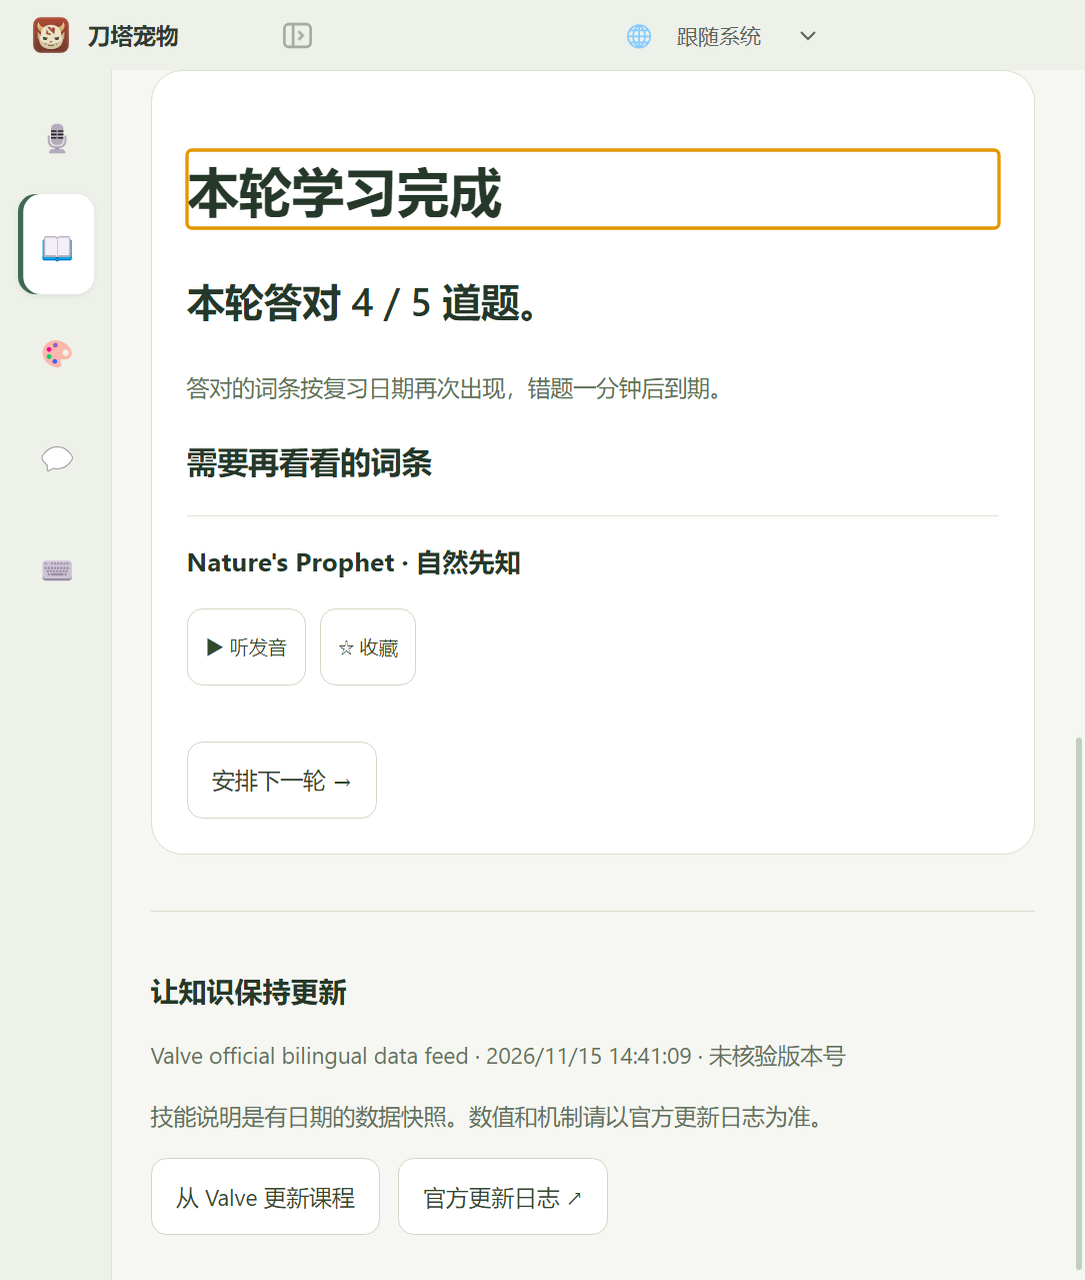
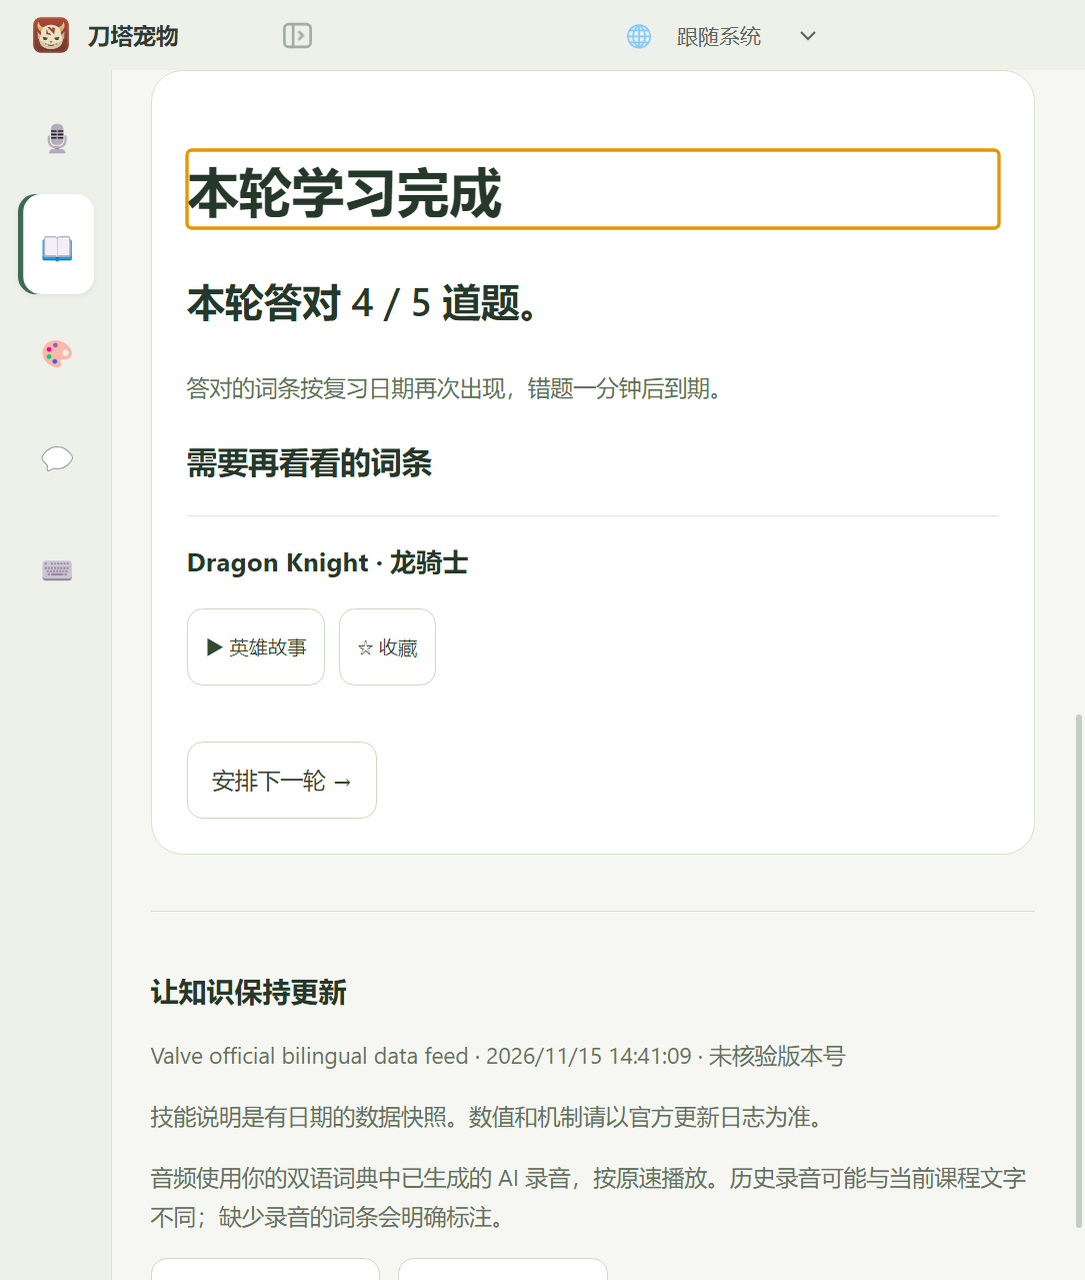
docs(audio): record imported library coverage and packaged playback checks

Changed region(s): [[0.1217, 0.9062, 0.9429, 0.9688], [0.1825, 0.4062, 0.4866, 0.5312], [0.9733, 0.9688, 1.0, 1.0]]

diff --git a/docs/DOTAPAD_LEARNING_PLAN.md b/docs/DOTAPAD_LEARNING_PLAN.md
@@ -24,7 +24,7 @@ The core learning loop is **explore → read English → reveal Chinese → list
 3. Bundle a normalized catalog with stable numeric hero, ability and item IDs and stable phrase IDs.
 4. Search English, Chinese, descriptions and parent hero names. Filter by subject.
 5. Display English first, Chinese names beside it, and Chinese descriptions behind a disclosure.
-6. Offer English pronunciation through system speech synthesis and cancel playback on page switches.
+6. Play the author's bundled AI-generated MP3 recordings from the bilingual lexicon at their original speed, with stop controls and automatic stop on navigation. Hero recordings are biographies; ability/item recordings include explanations. Mark missing recordings and label archive wording clearly.
 7. Save lessons to a personal wordbook and persist quiz progress under Electron `userData`.
 8. Offer multiple-choice recognition in both language directions, with distinct distractors from the same topic.
 9. Schedule successful answers after 1, 3, 7, 14 and 30 days; failures become due after one minute. A practice session avoids repeating a card; start a new session to review newly due mistakes.
@@ -54,7 +54,7 @@ Developer refresh: `npm run learning:update`. This updates the bundled snapshot 
 - Add original bilingual example sentences and usage notes, clearly separated from Valve's mechanics descriptions.
 - Implemented on November 15, 2026: short daily sessions with 5/10 lessons, saved-only practice, due-mistake priority, automatic resume and completion summaries. Guided beginner lessons remain future work.
 - Add cloze questions and typed answers with accepted synonyms, punctuation normalization and Chinese variants.
-- Add pronunciation pace and voice preferences; verify English system-voice support across supported Windows versions.
+- Add optional playback speed controls and regenerate stale or missing recordings from verified source text. The initial Windows system-voice playback has been replaced with the author's MP3 library.
 - Include innate abilities, facets, talents, Shard and Scepter changes as separate lesson types. The initial catalog focuses on the abilities returned in the normal ability list and item descriptions.
 
 ### Phase 4 — Patch learning (next iteration)
@@ -80,11 +80,15 @@ Developer refresh: `npm run learning:update`. This updates the bundled snapshot 
 | `src/learning/catalog.json` | Bundled, dated bilingual snapshot |
 | `src/learning/model.js` | Text normalization, localization pairing, search, quizzes and review intervals |
 | `src/learning/study.js` | Validated session options, due-review ordering, bounded queues and local-day summaries |
+| `src/learning/audio-manifest.json` | Stable lesson-ID mapping and missing-recording inventory |
+| `src/renderer/assets/learning-audio/` | Original imported MP3 files bundled for offline use |
+| `src/renderer/learning-audio.js` | Single-track MP3 playback, stop and playback-error handling |
 | `src/learning/update.js` | Official feed fetching, validation and normalization |
 | `src/main/learningController.js` | Trusted IPC, catalog cache, progress writes and external patch link |
 | `src/preload/learning.js` | Narrow bridge for learning actions |
 | `src/renderer/learning.*` | Responsive learning UI |
 | `scripts/update-learning.mjs` | Maintainer snapshot refresh |
+| `scripts/import-learning-audio.mjs` | Import matching MP3 files from the bilingual project's public audio directory |
 | `tests/test_learning.js` | Curriculum, review, localization, persistence and IPC tests |
 | `src/main/learningSmoke.js` | Real Electron search, bookmark, quiz and layout verification |
 

diff --git a/docs/DOTAPAD_AUDIO.md b/docs/DOTAPAD_AUDIO.md
@@ -1,0 +1,47 @@
+# DotaPad AI recording library
+
+The learning page originally used Windows speech synthesis at a reduced rate of 0.85. Its pronunciation depended on the installed system voice. The page now uses the author's existing AI-generated MP3s from the Dota 2 bilingual lexicon, copied without re-encoding and played at their original speed.
+
+## Coverage
+
+| Subject | Bundled recordings | Content |
+| --- | ---: | --- |
+| Heroes | 127 | Hero biographies, labelled “Hero story” |
+| Abilities | 734 | Ability name and explanation |
+| Items | 244 | Item name and explanation |
+| Expressions | 41 | Team communication expressions |
+| Total | 1,146 | 148,686,048 bytes, approximately 142 MiB |
+
+There are 164 current item lessons without a matching recording. Some are newer items, internal or older entries in the official feed, or items without recordings in the source library. They display “No recording yet.” The app does not silently substitute a system voice.
+
+## Playback
+
+- Click the recording button in a lesson, after a quiz answer, or in a mistake summary. Click again to stop.
+- Only one recording plays at a time.
+- Playback stops when switching Settings pages, changing library filters, advancing a question, rebuilding the displayed library or closing the learning document.
+- Playback is local and requires no AI credentials or internet access.
+- These recordings are archived learning material, not verified readings of the current patch. The source project's audio version is `20260329_v4`; that version label is not proof of the content or generation date of each individual file. Changes to current lesson text do not automatically regenerate the recordings.
+- Hero biographies differ from the short hero summary shown on the card. Their button is labelled accordingly.
+
+## Importing assets
+
+Default source: `D:\Projects\dota-2-bilingual-lexicon\public\audio`.
+
+```powershell
+npm run learning:import-audio
+# Or point at another copy of that public audio directory:
+node scripts/import-learning-audio.mjs "D:\path\to\public\audio"
+```
+
+The importer reads the learning catalog and matches files by subject, English name, hero folder, and the bilingual project's canonical and legacy apostrophe conventions. It copies matched files into `src/renderer/assets/learning-audio/` and writes `src/learning/audio-manifest.json`. It does not modify the reference project or generate new audio. Re-importing does not delete unused previous assets; review changes and remove obsolete recordings explicitly when maintaining the catalog.
+
+The manifest maps stable lesson IDs to local files and records the original relative filenames, byte counts, import time and missing lessons. When a refreshed lesson has a different name, it is treated as unmatched until reviewed and re-imported. An unchanged name can still have outdated mechanics, so the archive note remains visible.
+
+## Verification
+
+- All 1,146 imported files were checked against their source SHA-256 hashes.
+- Automated tests check file presence, size, MP3 headers, coverage, name mapping and player state transitions.
+- Muted Electron checks decode representative hero, ability, item and expression recordings and exercise actual playback controls.
+- The unpacked Windows preview includes the recordings inside `resources/app.asar`.
+- The complete desktop smoke test passed against both the source build and packaged preview, exercising actual muted playback from the app archive.
+- No claim is made that the recording transcripts match all current game numbers. Regenerating stale descriptions is a separate content task.

diff --git a/docs/DOTAPAD_LEARNING_PROGRESS.md b/docs/DOTAPAD_LEARNING_PROGRESS.md
@@ -58,3 +58,19 @@ Add original expression explanations and examples, typed/cloze questions and a p
 - Reviewed the screenshots and improved focus/scrolling after the first visual check; final verification and preview artifacts accompany this iteration.
 
 User instructions: [Daily practice guide](DOTAPAD_DAILY_PRACTICE.md). Publication continues on `codex/dotapad-bilingual-learning`, with separate planner, workspace and documentation commits. No installer release or default-branch merge is included.
+
+## 2026-11-15 — Reuse the existing AI-generated MP3 library
+
+- The user reported unnatural pronunciation. The first implementation used the Windows system voice at 0.85 speed; it did not reuse the existing bilingual project's recordings.
+- Inspected `D:\Projects\dota-2-bilingual-lexicon\public\audio`, the original audio button, generation scripts and the public audio version configuration.
+- Imported **1,146 matching MP3 recordings**: 127 hero biographies, 734 ability recordings, 244 items and 41 expressions. All imported files match the source SHA-256 hashes exactly.
+- Bundled audio occupies **148,686,048 bytes** (about 142 MiB). Files are copied unchanged and played at normal speed, without an AI key, network request or automatic system-voice fallback.
+- Mapped recordings by stable lesson ID, hero context and canonical/legacy filenames. The manifest records 164 item lessons without a matching recording; the UI marks them **No recording yet**. Renamed lessons do not silently inherit an old recording by ID.
+- Added recording controls to the lesson library, quiz answer explanations and the mistake summary. Clicking again stops playback. Switching pages, filtering, advancing a question and closing the document release playback.
+- Hero recordings are explicitly labelled **Hero story**; recordings are not presented as name-only pronunciation. The page identifies archived audio wording that may differ from current game descriptions.
+- Added playback tests for normal speed, toggling, completion, errors, pending-play cancellation and imported-asset integrity. Full automated suite: **257 passed, 0 failed**. English interface check passed.
+- The desktop smoke checks actual MP3 metadata for all four lesson kinds and exercises a visible ability's MP3 play/stop and navigation behavior with audio muted.
+- Built an unpacked Windows preview under `release/learning-audio-preview/win-unpacked`. Verified all 1,146 MP3 files and the audio manifest are included in `app.asar`.
+- Full source and packaged-preview desktop smoke tests both passed, including actual muted MP3 playback from source files and from `app.asar`, normal speed, stop toggling and stopping when leaving the learning page.
+
+Maintenance details and limitations: [AI audio library](DOTAPAD_AUDIO.md).

diff --git a/docs/DOTAPAD_DAILY_PRACTICE.md b/docs/DOTAPAD_DAILY_PRACTICE.md
@@ -24,6 +24,8 @@ Each submitted answer saves automatically. You may switch pages, close Settings 
 
 After the final answer, choose **See session summary / 查看学习总结**. The summary shows your score and the words you missed, with pronunciation and bookmark controls. Correct answers return after 1, 3, 7, 14 or 30 days according to your review level. Mistakes become due after one minute and can appear in a subsequent session.
 
+Audio now plays the existing AI-generated MP3s from the bilingual library at their original speed. Hero buttons play biographies; ability and item buttons play recorded explanations. Recordings may use older wording than the current lesson text. Items without a recording are marked explicitly. See [the audio library notes](DOTAPAD_AUDIO.md).
+
 The Practice panel counts completed sessions and answers for today using your computer's local date. It retains the latest 180 completed-session summaries. Individual word progress and the active session remain saved separately within the same state file.
 
 ## 中文说明
